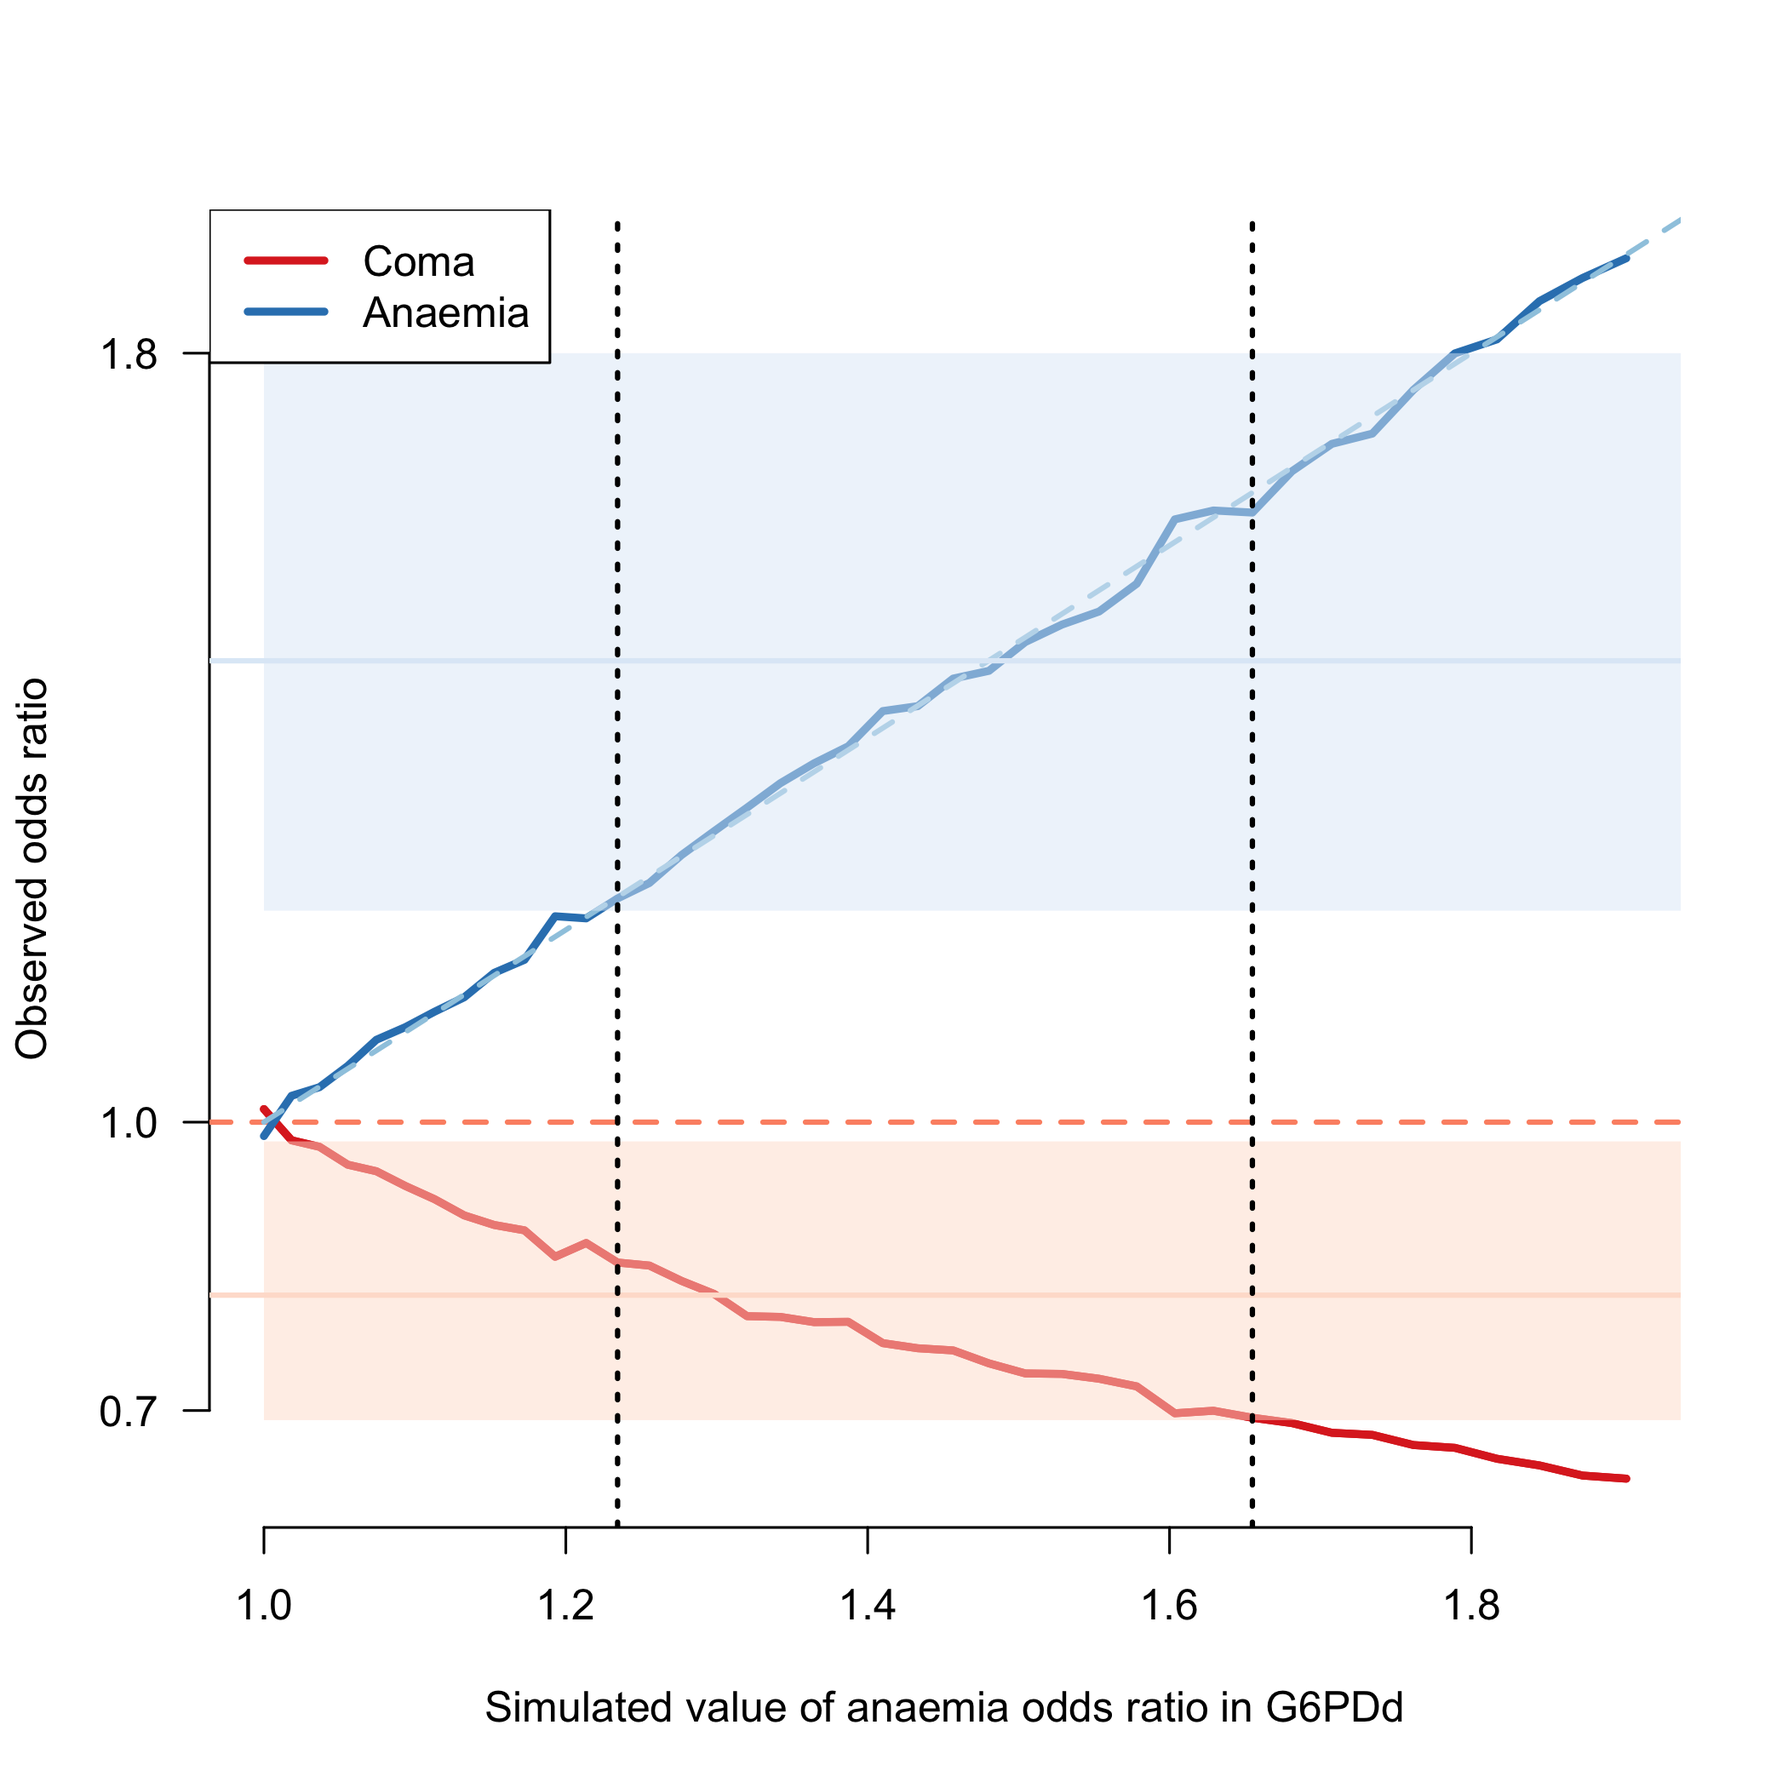
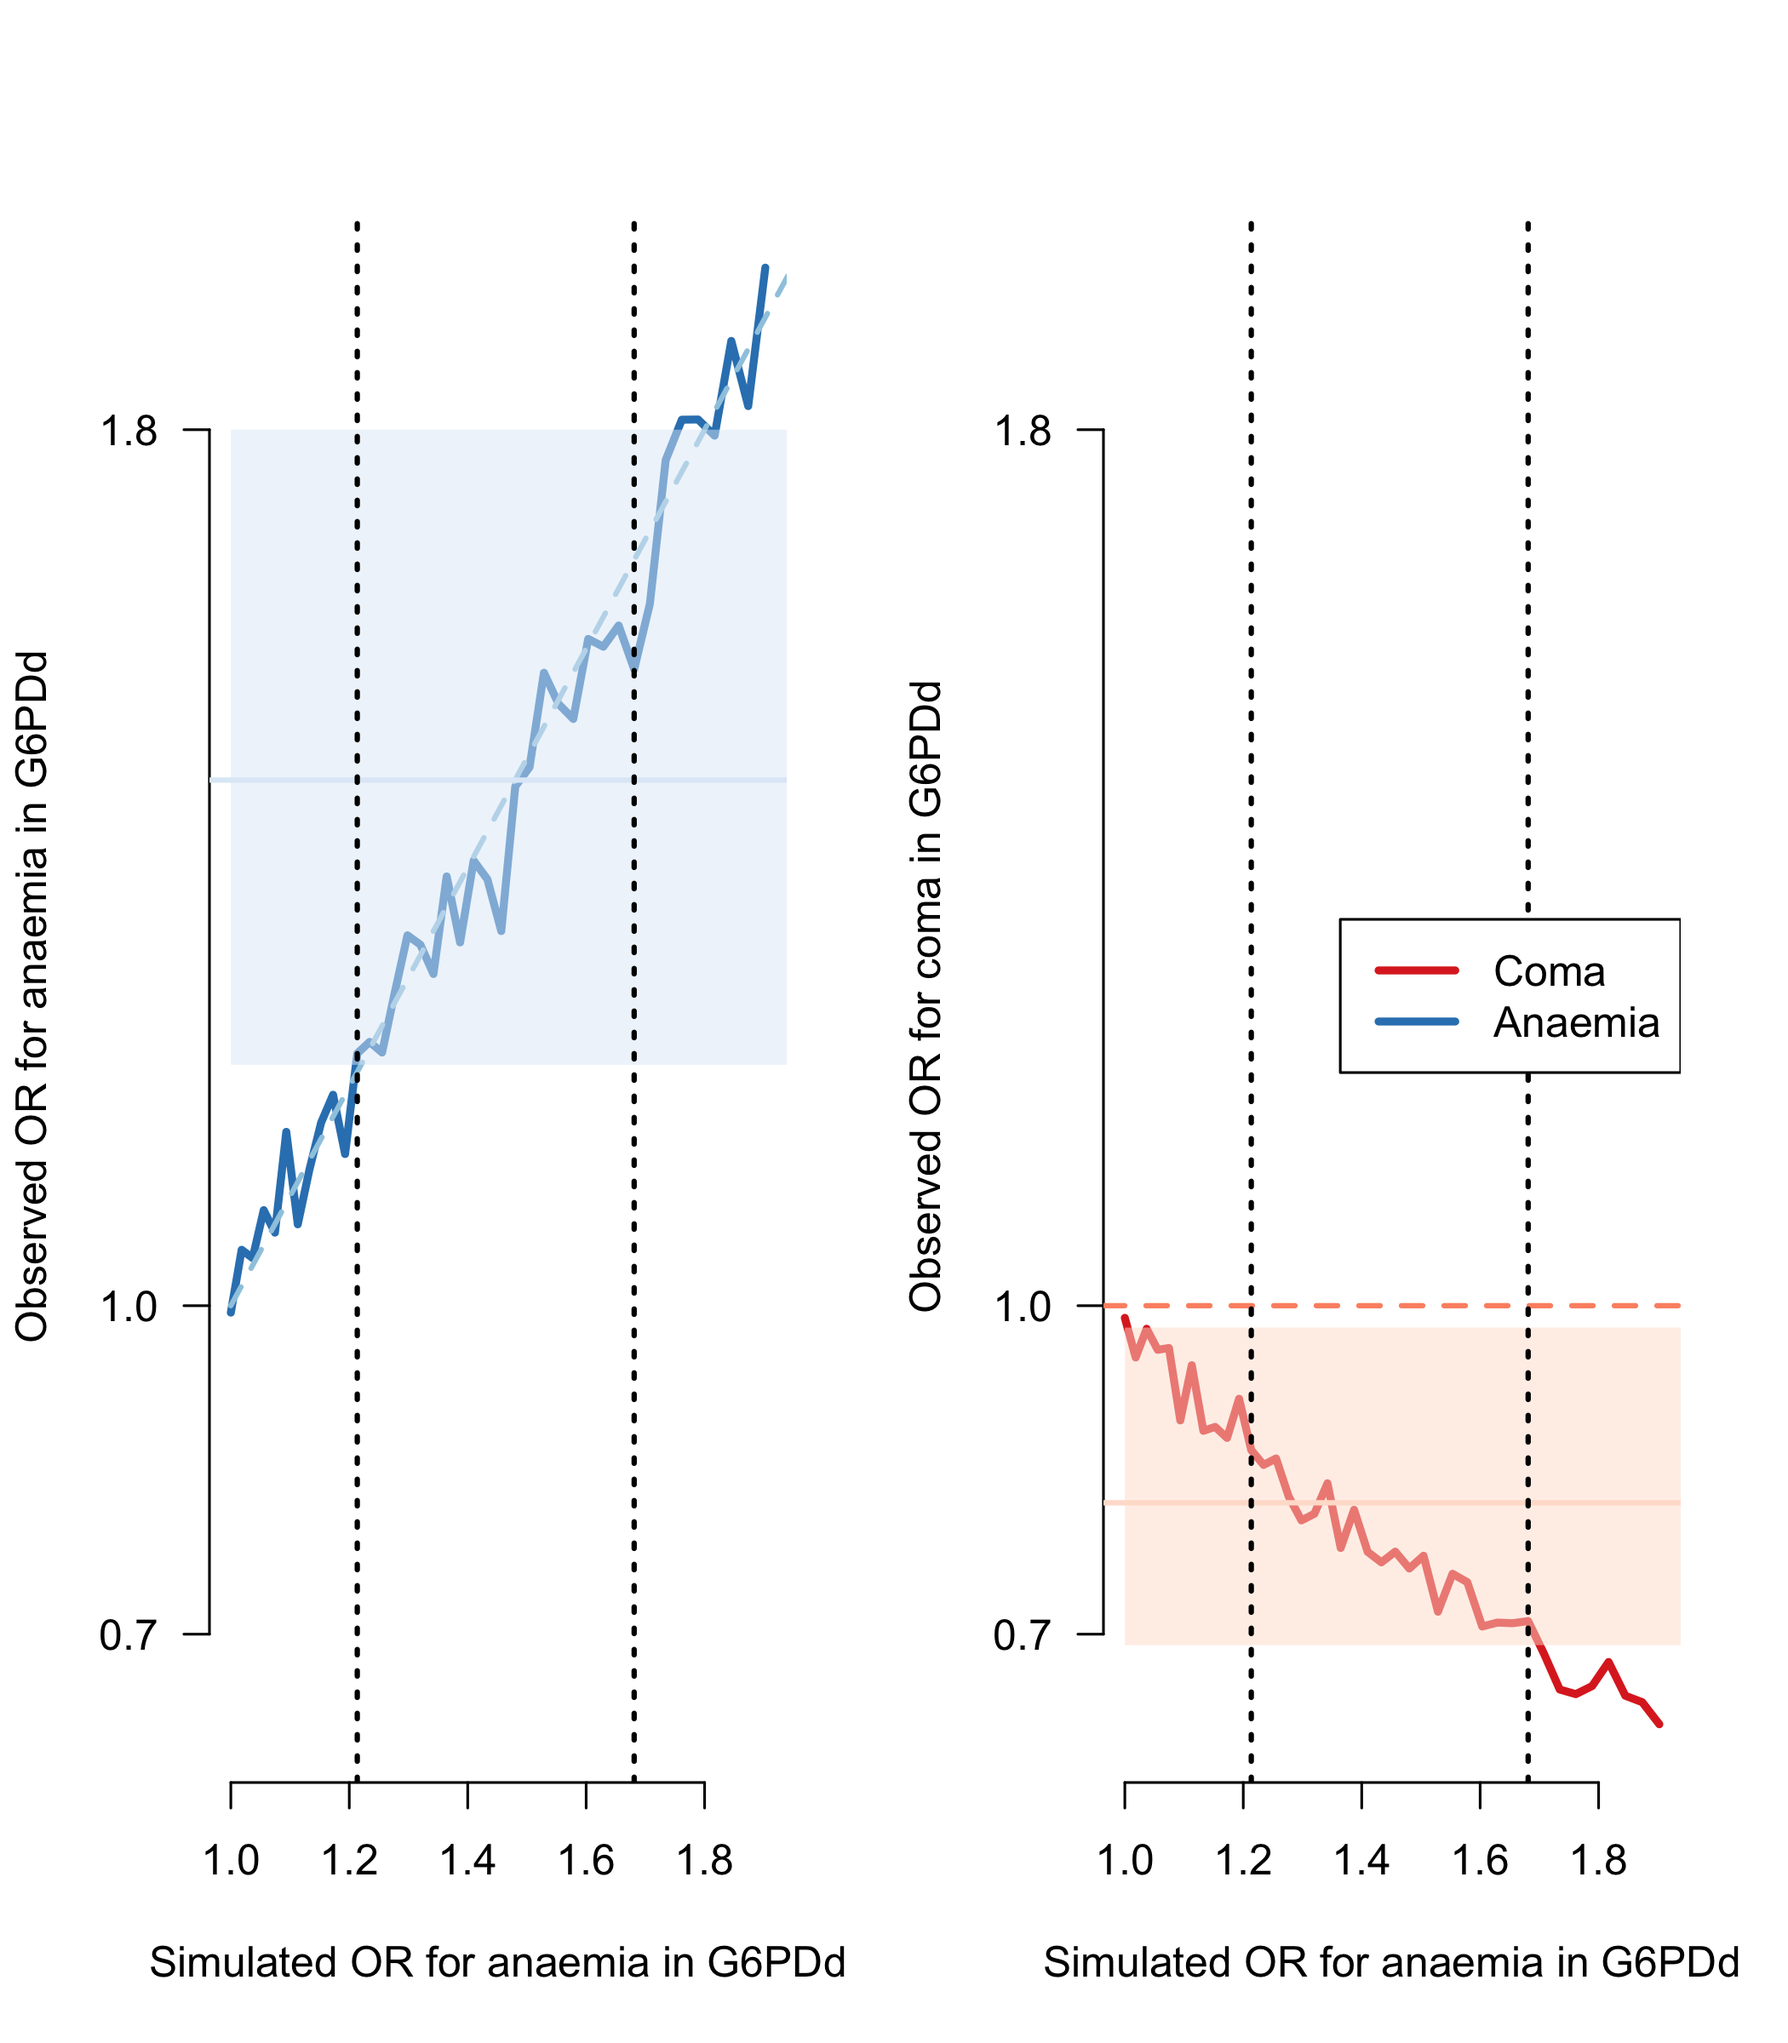
update plot

diff --git a/SelectionBiasSimulation.md b/SelectionBiasSimulation.md
@@ -125,11 +125,11 @@ Prevalence of G6PD deficiency in this group:
 
 There is a slightly increased number of G6PD deficients seen because they are being selected for by anaemia.
 
-Now we dig into the different grouPIs and see whether the probabilities correspond to the true data generating probabilities:
+Now we dig into the different groups and see whether the probabilities correspond to the true data generating probabilities:
 
 ## Coma between normals and deficients
 
-First for Coma (in this model coma and G6PD are independent so there should be no differences between the grouPIs!):
+First for Coma (in this model coma and G6PD are independent so there should be no differences between the groups!):
 
 ```
 ## 
@@ -153,7 +153,7 @@ First for Coma (in this model coma and G6PD are independent so there should be n
 ##      64      36
 ```
 
-Odds ratio for Anaemia:
+Odds ratio for Coma:
 
 ```r
 O1 = sum(Study_dat$Coma=='Coma' & Study_dat$G6PD=='Normal')/sum(Study_dat$Coma=='No Coma' & Study_dat$G6PD=='Normal')
@@ -220,17 +220,17 @@ O2/O1
 
 Due to the selection bias, you're seeing higher rates of anaemia in the G6PD deficient group (which is expected and corresponds to the model), and you're seeing lower rates of coma.
 
-Therefore you can get this `balancing selection' illusion just from a simple selection bias along with an effect of G6PDdon anaemia.
+Therefore you can get this `balancing selection' illusion just from a simple selection bias along with an effect of G6PDd on anaemia.
 
 # Graphical visualisation of bias
 
 
-We run the model for values of pi from P_anaemia up to 0.35 (50\% increase).
+We run the model for values of pi from P_anaemia up to 0.35 (50\% increase). This is converted into odds ratio for anaemia in G6PDd (x-axis).
 
 
 ```r
 # The number of malaria patients
-N = 10^6
+N = 10^5
 PIs = seq(P_anaemia, 0.35, length.out = 40)
 ORcoma = ORanaemia = array(dim=length(PIs))
 TrueOR_anaemia = array(dim=length(PIs))
